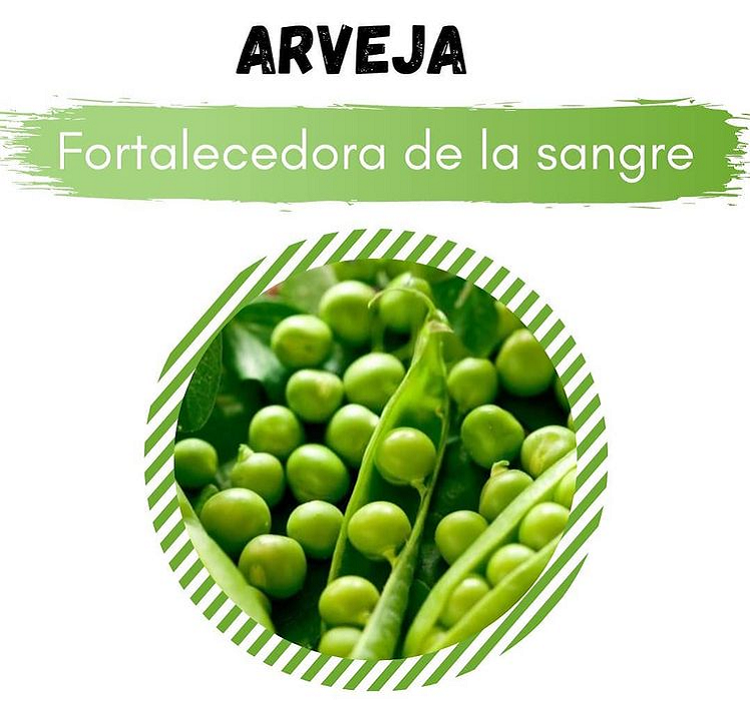
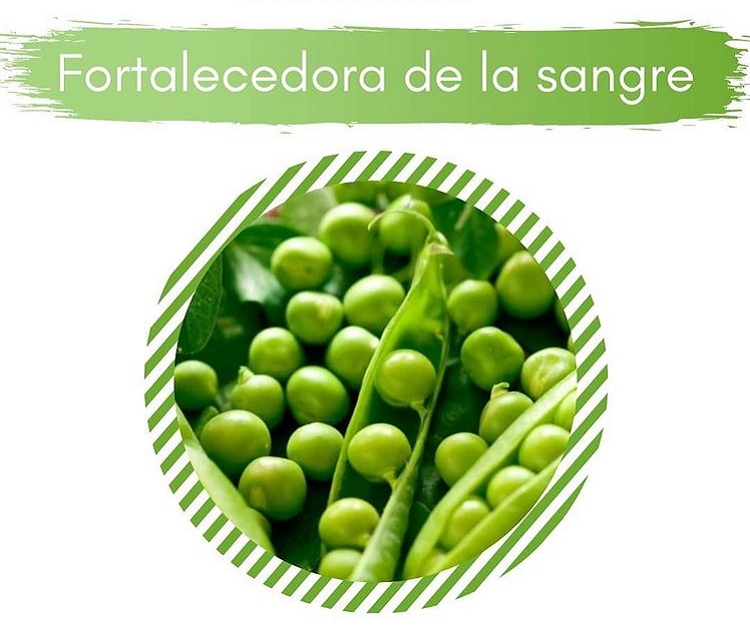
haciendo Prod responsive

diff --git a/css/main.css b/css/main.css
@@ -1,3 +1,3 @@
-@font-face{font-family:'GlacialIndifference';src:url(../fonts/GlacialIndifference/GlacialIndifference-Regular.otf);font-weight:normal;font-style:normal}@font-face{font-family:'Gagalin';src:url(../fonts/Gagalin/OTF/Gagalin-Regular.otf);font-weight:normal;font-style:normal}html{width:100%}html body{background-image:url(../images/fondo-vegetales4.jpg);position:relative;min-height:1000px;max-height:2000px}html main{margin-bottom:10px}.barraNavegacion{display:flex;justify-content:space-around;align-items:center;border:black}.barraNavegacion nav{background-image:linear-gradient(#fbecb4, #FDFEF1);width:100%}.barraNavegacion h3{margin-bottom:45px;font-family:'Calibri', 'Gill Sans', 'Gill Sans MT', 'Trebuchet MS', sans-serif;background-color:#fbecb4;margin-top:30px;text-align:center;border-style:double;border-color:black}ul{text-align:center;align-items:center;color:#2b2f17}ul li{display:inline-block;justify-content:space-between;font-family:'GlacialIndifference', 'Gill Sans', 'Gill Sans MT', sans-serif;font-size:20px;margin-left:20px;margin-right:20px}ul li a{text-decoration:none;color:#2b2f17;justify-content:space-between}ul li a:hover{text-decoration:none;color:#2b2f17;transition:0.5s}ul li:hover{transform:scale(1.4, 1.4);transition:1s}#logo{display:flex;justify-content:center;padding-top:12px;padding-bottom:30px;margin-top:30px;background-color:#fbecb4;height:200px;border-style:double;border-color:black}#logo div{padding:15px}#logo div a img{width:150px;height:150px;border-color:black}#logo div a img:hover{transform:scale(1.5, 1.5);transition:1s;border-color:black}.milZabores{font-family:'GlacialIndifference', 'Gill Sans', 'Gill Sans MT';padding-top:60px;font-size:45px}.veganos{font-family:'Gagalin', 'calibri';padding-top:60px;font-size:45px}footer{font-family:'GlacialIndifference', 'Gill Sans', 'Gill Sans MT', 'Trebuchet MS', sans-serif;width:100%;height:50px;bottom:0;right:0;left:0;position:relative;padding:10px;background-image:linear-gradient(#FDFEF1, #fbecb4)}footer p{text-align:center;color:black}.imgPrincipalProd div img{width:1000px;height:300px;transform:translate(240px, 30px)}.tituloProductos{font-family:'GlacialIndifference', 'Gill Sans', 'Gill Sans MT', sans-serif;font-size:xx-large;font-weight:bolder;transform:translate(250px, -30px);color:#FDFEF1}.productos{font-family:'GlacialIndifference', 'Gill Sans', 'Gill Sans MT', sans-serif;transform:translate(250px, 1px);margin-top:30px;font-weight:bolder}.productos div p{font-size:x-large;font-weight:bold;margin-top:5px;margin-bottom:4px}.productos div h2{display:inline-block;font-size:medium}#prodGrillas{display:grid;grid-template-areas:"prod1 prod2 prod3 prod4" "prod5 prod6 prod7 prod8";grid-template-columns:300px 300px 300px 250px;grid-template-rows:300px 300px 300px 250px}.prod1{grid-area:prod1}.prod2{grid-area:prod2}.prod3{grid-area:prod3}.prod4{grid-area:prod4}.prod5{grid-area:prod5}.prod6{grid-area:prod6}.prod7{grid-area:prod7}.prod8{grid-area:prod8}.imgPrincipalTips div img{transform:translate(300px, 20px)}.titulosTips{font-family:'GlacialIndifference', 'Gill Sans', 'Gill Sans MT', sans-serif;font-size:xx-large;font-weight:bolder;transform:translate(310px, -25px);color:#FDFEF1;width:60%}.titulosTips h1{color:black;font-size:25px;margin-top:25px}.titulosTips p{color:#222;font-size:medium}.imgTips{margin-left:-200px;margin-bottom:20px}.imgCongelados{display:flex;margin-left:3px;margin-right:3px}.imgCongelados img{justify-content:space-between}.articulosTips{margin-top:25px}.tituloConocenos{font-family:'GlacialIndifference', 'Gill Sans', 'Gill Sans MT', sans-serif;font-size:xx-large;font-weight:bolder;transform:translate(320px, -30px);color:#FDFEF1;width:60%}.tituloConocenos p{color:#2c2c2c;font-size:25px;display:inline-block;transform:translate(-50px);margin-top:25px}.imgPrincipalConocenos div img{font-family:'GlacialIndifference', 'Gill Sans', 'Gill Sans MT', sans-serif;font-size:25px;font-weight:bolder;transform:translate(310px, 20px);color:#FDFEF1;width:60%}.contactanos{font-family:'GlacialIndifference', 'Gill Sans', 'Gill Sans MT', sans-serif;font-size:25px;font-weight:normal;margin-top:80px;width:80%;transform:translate(400px)}.contactanos p{font-size:20px}.contactanos form{font-size:20px}.carousel-inner{position:relative;width:70%;overflow:hidden;transform:translate(150px, 10px);margin-bottom:45px}.fondoClaro{background-color:#fbecb4;max-width:75%;transform:translate(230px);padding-left:-20px;border-left:double #222;border-right:double #222}.positionProd{transform:translate(-120px)}@media only screen and (max-width: 576px){.milZabores{font-family:'GlacialIndifference', 'Gill Sans', 'Gill Sans MT';padding-top:60px;padding-right:10px;font-size:30px}.veganos{font-family:'Gagalin', 'calibri';padding-top:60px;font-size:30px}#logo{display:flex;justify-content:center;padding-top:12px;padding-bottom:30px;padding-right:25px;margin-top:30px;background-color:#fbecb4;height:200px;border-style:double;border-color:black}#logo div{padding:15px}#logo div a img{height:100px;width:100px}#logo div a img:hover{transform:scale(1.5, 1.5);transition:1s}.barraNavegacion h3{font-size:20px}#carouselExampleIndicators{display:flex;align-items:center}.fondoClaro{background-color:#fbecb4;max-width:75%;transform:translate(80px);padding-left:-20px;border-left:double #222;border-right:double #222}.imgPrincipalProd div img{width:400px;height:120px;transform:translate(130px, 30px)}.tituloProductos{font-family:'GlacialIndifference', 'Gill Sans', 'Gill Sans MT', sans-serif;font-size:25px;font-weight:bolder;transform:translate(135px, -15px);color:#FDFEF1}.productos{font-family:'GlacialIndifference', 'Gill Sans', 'Gill Sans MT', sans-serif;transform:translate(250px, 1px);margin-top:30px;font-weight:bolder}.productos div p{font-size:x-large;font-weight:bold;margin-top:5px;margin-bottom:4px}.productos div h2{display:inline-block;font-size:medium}#prodGrillas{display:grid;grid-template-areas:"prod1 prod2 prod3 prod4" "prod5 prod6 prod7 prod8";grid-template-columns:300px 300px 300px 250px;grid-template-rows:300px 300px 300px 250px}}
+@font-face{font-family:'GlacialIndifference';src:url(../fonts/GlacialIndifference/GlacialIndifference-Regular.otf);font-weight:normal;font-style:normal}@font-face{font-family:'Gagalin';src:url(../fonts/Gagalin/OTF/Gagalin-Regular.otf);font-weight:normal;font-style:normal}html{width:100%}html body{background-image:url(../images/fondo-vegetales4.jpg);position:relative;min-height:1000px;max-height:2000px}html main{margin-bottom:10px}.barraNavegacion{display:flex;justify-content:space-around;align-items:center;border:black}.barraNavegacion nav{background-image:linear-gradient(#fbecb4, #FDFEF1);width:100%}.barraNavegacion h3{margin-bottom:45px;font-family:'Calibri', 'Gill Sans', 'Gill Sans MT', 'Trebuchet MS', sans-serif;background-color:#fbecb4;margin-top:30px;text-align:center;border-style:double;border-color:black}ul{text-align:center;align-items:center;color:#2b2f17}ul li{display:inline-block;justify-content:space-between;font-family:'GlacialIndifference', 'Gill Sans', 'Gill Sans MT', sans-serif;font-size:20px;margin-left:20px;margin-right:20px}ul li a{text-decoration:none;color:#2b2f17;justify-content:space-between}ul li a:hover{text-decoration:none;color:#2b2f17;transition:0.5s}ul li:hover{transform:scale(1.4, 1.4);transition:1s}#logo{display:flex;justify-content:center;padding-top:12px;padding-bottom:30px;margin-top:30px;background-color:#fbecb4;height:200px;border-style:double;border-color:black}#logo div{padding:15px}#logo div a img{width:150px;height:150px;border-color:black}#logo div a img:hover{transform:scale(1.5, 1.5);transition:1s;border-color:black}.milZabores{font-family:'GlacialIndifference', 'Gill Sans', 'Gill Sans MT';padding-top:60px;font-size:45px}.veganos{font-family:'Gagalin', 'calibri';padding-top:60px;font-size:45px}footer{font-family:'GlacialIndifference', 'Gill Sans', 'Gill Sans MT', 'Trebuchet MS', sans-serif;width:100%;height:50px;bottom:0;right:0;left:0;position:relative;padding:10px;background-image:linear-gradient(#FDFEF1, #fbecb4)}footer p{text-align:center;color:black}.imgPrincipalProd div img{width:1000px;height:300px;transform:translate(240px, 30px)}.tituloProductos{font-family:'GlacialIndifference', 'Gill Sans', 'Gill Sans MT', sans-serif;font-size:xx-large;font-weight:bolder;transform:translate(250px, -30px);color:#FDFEF1}.productos{font-family:'GlacialIndifference', 'Gill Sans', 'Gill Sans MT', sans-serif;transform:translate(250px, 1px);margin-top:30px;font-weight:bolder}.productos div p{font-size:x-large;font-weight:bold;margin-top:5px;margin-bottom:4px}.productos div h2{display:inline-block;font-size:medium}#prodGrillas{display:grid;grid-template-areas:"prod1 prod2 prod3 prod4" "prod5 prod6 prod7 prod8";grid-template-columns:300px 300px 300px 250px;grid-template-rows:300px 300px 300px 250px}.prod1{grid-area:prod1}.prod2{grid-area:prod2}.prod3{grid-area:prod3}.prod4{grid-area:prod4}.prod5{grid-area:prod5}.prod6{grid-area:prod6}.prod7{grid-area:prod7}.prod8{grid-area:prod8}.imgPrincipalTips div img{transform:translate(300px, 20px)}.titulosTips{font-family:'GlacialIndifference', 'Gill Sans', 'Gill Sans MT', sans-serif;font-size:xx-large;font-weight:bolder;transform:translate(310px, -25px);color:#FDFEF1;width:60%}.titulosTips h1{color:black;font-size:25px;margin-top:25px}.titulosTips p{color:#222;font-size:medium}.imgTips{margin-left:-200px;margin-bottom:20px}.articulosTips{margin-top:25px}.tituloConocenos{font-family:'GlacialIndifference', 'Gill Sans', 'Gill Sans MT', sans-serif;font-size:xx-large;font-weight:bolder;transform:translate(320px, -30px);color:#FDFEF1;width:60%}.tituloConocenos p{color:#2c2c2c;font-size:25px;display:inline-block;transform:translate(-50px);margin-top:25px}.imgPrincipalConocenos div img{font-family:'GlacialIndifference', 'Gill Sans', 'Gill Sans MT', sans-serif;font-size:25px;font-weight:bolder;transform:translate(310px, 20px);color:#FDFEF1;width:60%}.contactanos{font-family:'GlacialIndifference', 'Gill Sans', 'Gill Sans MT', sans-serif;font-size:25px;font-weight:normal;margin-top:80px;width:80%;transform:translate(400px)}.contactanos p{font-size:20px}.contactanos form{font-size:20px}.carousel-inner{position:relative;width:70%;overflow:hidden;transform:translate(150px, 10px);margin-bottom:45px}.fondoClaro{background-color:#fbecb4;max-width:75%;transform:translate(230px);padding-left:-20px;border-left:double #222;border-right:double #222}.positionProd{transform:translate(-120px)}@media only screen and (max-width: 576px){.milZabores{font-family:'GlacialIndifference', 'Gill Sans', 'Gill Sans MT';padding-top:60px;padding-right:10px;font-size:30px}.veganos{font-family:'Gagalin', 'calibri';padding-top:60px;font-size:30px}#logo{display:flex;justify-content:center;padding-top:12px;padding-bottom:30px;padding-right:25px;margin-top:30px;background-color:#fbecb4;height:200px;border-style:double;border-color:black}#logo div{padding:15px}#logo div a img{height:100px;width:100px}#logo div a img:hover{transform:scale(1.5, 1.5);transition:1s}.barraNavegacion h3{font-size:20px}#carouselExampleIndicators{display:flex;align-items:center}.fondoClaro{background-color:#fbecb4;max-width:75%;transform:translate(80px);padding-left:-20px;border-left:double #222;border-right:double #222}.imgPrincipalProd div img{width:400px;height:120px;transform:translate(130px, 30px)}.tituloProductos{font-family:'GlacialIndifference', 'Gill Sans', 'Gill Sans MT', sans-serif;font-size:25px;font-weight:bolder;transform:translate(135px, -15px);color:#FDFEF1}.productos{font-family:'GlacialIndifference', 'Gill Sans', 'Gill Sans MT', sans-serif;transform:translate(250px, 1px);margin-top:30px;font-weight:bolder}.productos div p{font-size:x-large;font-weight:bold;margin-top:5px;margin-bottom:4px}.productos div h2{display:inline-block;font-size:medium}#prodGrillas{display:grid;grid-template-areas:"prod1 prod2 prod3 prod4" "prod5 prod6 prod7 prod8";grid-template-columns:300px 300px 300px 250px;grid-template-rows:300px 300px 300px 250px}.imgPrincipalTips img{width:400px;height:120px;transform:translate(15px, 30px)}}.titulosTips{font-family:'GlacialIndifference', 'Gill Sans', 'Gill Sans MT', sans-serif;font-weight:bolder;transform:translate(310px, -25px);color:#FDFEF1;width:60%}.titulosTips h1{transform:translate(-290px, -7px);color:#FDFEF1;font-size:xx-large}.titulosTips h2{color:black;font-size:25px;margin-top:25px;margin-left:-150px}.titulosTips p{color:#222;font-size:medium}.articulosTips{font-family:'GlacialIndifference', 'Gill Sans', 'Gill Sans MT', sans-serif;margin-top:25px;margin-left:25px}.articulosTips img{margin-top:25px;margin-left:25px;width:200px;height:171px}@media (min-width: 1200px){.articulosTips p{margin-top:25px;margin-left:-200px}}
 
[2 lines of base64/hex data omitted]

diff --git a/pages/milzatips.html b/pages/milzatips.html
@@ -43,19 +43,24 @@
             </section>
         </header>
         <main class="fondoClaro">
-            <section class="imgPrincipalTips">
-                <div>
-                    <img src="../images/pizza.jpg" width="800px" height="280px" alt="milzatips">
-                </div>
-                <div class="titulosTips">
-                    MILZATIPS
+            <section>
+                <div class="imgPrincipalTips">
+                    <img src="../images/pizza.jpg" alt="milzatips">
                 </div>
                 <div class="titulosTips">
                     <h1>
+                        MILZATIPS
+                    </h1>                   
+                </div>
+                <div class="titulosTips">
+                    <h2>
                         ARVEJAS
-                    </h1>
-                    <img class="imgTips" src="../images/milzatips/tip-arveja.png" height="400px">
-                    <p class="articulosTips">¿QUÉ NOS APORTAN?
+                    </h2>
+                </div>
+                <div  class="articulosTips">
+                    <img class="imgTips" src="../images/milzatips/tip-arveja.png">
+                    <p>
+                        <p>¿QUÉ NOS APORTAN?</p>
                         <p>Investigando un poquito encontré información muy valiosa sobre estas legumbres.</p>
                         
                         <p>🌟Son fortalecedoras de la sangre porque aportan hierro y tiamina (B1) regenerando y
@@ -80,80 +85,75 @@
                         comidas.💥</p>
                 </div>
                 <div class="titulosTips">
-                    <h1>
+                    <h2>
                         ZANAHORIA
-                    </h1>
-                    <img class="imgTips" src="../images/milzatips/tip-zanahoria.png" height="400px">
-                    <p class="articulosTips">Podemos describirla como una raíz con acciones curativas.
-
-                        <p>Se puede consumir de diversas formas, incluso crudas, asadas, hervidas, salteadas,
-                            untables, y tanto su textura como su sabor, resultan muy agradables al paladar.</p>
-                        
-                        <p>👉UN BUEN DATO: Los carotenos son responsables del color naranja de la zanahoria, por la
-                            cual se nombra esta clase de productos químicos, y de los colores de muchas otras frutas,
-                            verduras y hongos (por ejemplo, batatas, rebozuelos y cantalupo).</p>
-                        
-                        <p>🌟¿QUÉ NOS APORTAN?🌟</p>
-                        
-                        <p>🌟VISTA SANA 🌟-
-                            ERA UN MITO?🤔NO☑</p>
-                        
-                        <p>✨Ayuda a promover el buen funcionamiento de la retina humana, el betacaroteno actúa
-                            como un compuesto antioxidante que se transforma en vitamina A, también conocida como
-                            retinol.</p>
-                        
-                        
-                        <p>La falta de vitamina A en el organismo puede llegar a ocasionar una enfermedad ocular
-                            llamada xeroftalmia, la cual se caracteriza por la sequedad de la membrana conjuntiva y
-                            opacidad de la córnea. Si bien se trata de un caso extremo, viene a darnos una idea
-                            acerca de la importancia de contar con vitamina A en el organismo.</p>
-                        
-                        <p>🌟REGENERA LA PIEL🌟</p>
-                        
-                        <p>Las vitaminas A, B y C, en conjunto con otros nutrientes, como los flavonoides, ayudan a
-                            que la piel tenga la capacidad de curarse con mayor facilidad en caso de lesión externa y a
-                            mantenerse sana.</p>
-                        
-                        <p>La vitamina E promueve la formación de fibras elásticas y colágenas del tejido
-                            conjuntivo, actúa como antioxidante que, en suma, ayuda a mantener la elasticidad y
-                            tersura de la piel.</p>
-                        
-                        <p>🌟SISTEMA DIGESTIVO ACTIVO🌟</p>
-                        
-                        <p>La zanahoria es una hortaliza con alto contenido de agua, por ende, supone un buen
-                            aporte de fibra.Esto le confiere propiedades digestivas muy importantes para la salud del
-                            sistema digestivo. Se ha comprobado que, al comerla, la zanahoria aumenta la
-                            producción de saliva y, también, de los jugos gástricos que intervienen en el proceso
-                            de la digestión.</p>
-                        
-                        <p>Es aconsejable comer por lo menos 4 veces por semana!</p>
+                    </h2>
                 </div>
+                <div class="articulosTips">
+                    <img class="imgTips" src="../images/milzatips/tip-zanahoria.png">
+                    <p>Podemos describirla como una raíz con acciones curativas.</p>
+
+                    <p>Se puede consumir de diversas formas, incluso crudas, asadas, hervidas, salteadas,
+                        untables, y tanto su textura como su sabor, resultan muy agradables al paladar.</p>
+                            
+                    <p>👉UN BUEN DATO: Los carotenos son responsables del color naranja de la zanahoria, por la
+                        cual se nombra esta clase de productos químicos, y de los colores de muchas otras frutas,
+                        verduras y hongos (por ejemplo, batatas, rebozuelos y cantalupo).</p>
+                            
+                    <p>🌟¿QUÉ NOS APORTAN?🌟</p>
+                            
+                    <p>🌟VISTA SANA 🌟-
+                        ERA UN MITO?🤔NO☑</p>
+                            
+                    <p>✨Ayuda a promover el buen funcionamiento de la retina humana, el betacaroteno actúa
+                        como un compuesto antioxidante que se transforma en vitamina A, también conocida como
+                        retinol.</p>
+                            
+                            
+                    <p>La falta de vitamina A en el organismo puede llegar a ocasionar una enfermedad ocular
+                        llamada xeroftalmia, la cual se caracteriza por la sequedad de la membrana conjuntiva y
+                        opacidad de la córnea. Si bien se trata de un caso extremo, viene a darnos una idea
+                        acerca de la importancia de contar con vitamina A en el organismo.</p>
+                            
+                    <p>🌟REGENERA LA PIEL🌟</p>
+                            
+                    <p>Las vitaminas A, B y C, en conjunto con otros nutrientes, como los flavonoides, ayudan a
+                        que la piel tenga la capacidad de curarse con mayor facilidad en caso de lesión externa y a
+                        mantenerse sana.</p>
+                            
+                    <p>La vitamina E promueve la formación de fibras elásticas y colágenas del tejido
+                        conjuntivo, actúa como antioxidante que, en suma, ayuda a mantener la elasticidad y
+                        tersura de la piel.</p>
+                            
+                    <p>🌟SISTEMA DIGESTIVO ACTIVO🌟</p>
+                            
+                    <p>La zanahoria es una hortaliza con alto contenido de agua, por ende, supone un buen
+                        aporte de fibra.Esto le confiere propiedades digestivas muy importantes para la salud del
+                        sistema digestivo. Se ha comprobado que, al comerla, la zanahoria aumenta la
+                        producción de saliva y, también, de los jugos gástricos que intervienen en el proceso
+                        de la digestión.</p>
+                            
+                    <p>Es aconsejable comer por lo menos 4 veces por semana!</p>
+                </div>               
                 <div class="titulosTips">
-                    <h1>
+                    <h2>
                         TOSTANARANJA
-                    </h1>
-                    <img class="imgTips" src="../images/milzatips/tostaranja.png" height="400px">
-                    <p class="articulosTips">
-                        <p>Hoy le traemos una recetina facilísima, que sirve mucho para acompañar algo como puede ser un jugo, unos mates o una birrita✨ depende la ocasión.</p>
-
-                        <p>🔶➡El próximo podría ser como hacer su propio •Hummus de garbanzos•? La tiramoooos...⬅🔶</p><br>
-                        
-                        <p>🌿Receta🌿</p>
-                        
-                        <p> 
-                            
-                                •Hummus de Garbanzos<br>
-                                •Zanahoria rallada🥕 (puede ser tomate, pepino, rúcula) lo que gustes🍅🥬<br>
-                                •Pimienta, sal, y aceite<br>
-                                • Semillas de las que tengas en casa
-                            
-                        </p>
-
-                        
-                        <p>Un dato que no es menor, para realzar y unir todos los sabores, terminamos poniéndole unas gotas de jugo natural de limón🍋, y listo! Alto aperitivooo, nutritivo y riquísimo💘</p>
-                        
-                        <p>Porción individual: 3 tostadas✅</p>
-
+                    </h2>
+                </div>
+                <div class="articulosTips">
+                    <img class="imgTips" src="../images/milzatips/tostaranja.png">
+                    <p>Hoy le traemos una recetina facilísima, que sirve mucho para acompañar algo como puede ser un jugo, unos mates o una birrita✨ depende la ocasión.</p>
+                    <p>🔶➡El próximo podría ser como hacer su propio •Hummus de garbanzos•? La tiramoooos...⬅🔶</p><br>                        
+                    <p>🌿Receta🌿</p>                        
+                    <p>                             
+                        •Hummus de Garbanzos<br>
+                        •Zanahoria rallada🥕 (puede ser tomate, pepino, rúcula) lo que gustes🍅🥬<br>
+                        •Pimienta, sal, y aceite<br>
+                        • Semillas de las que tengas en casa                            
+                    </p>                        
+                    <p>Un dato que no es menor, para realzar y unir todos los sabores, terminamos poniéndole unas gotas de jugo natural de limón🍋, y listo! Alto aperitivooo, nutritivo y riquísimo💘</p>                       
+                    <p>Porción individual: 3 tostadas✅</p>
+                </div>
                 </div>
             </section>
         </main>

diff --git a/scss/_global.scss b/scss/_global.scss
@@ -213,14 +213,6 @@ footer{
   margin-left: -200px;
   margin-bottom: 20px;
 }
-.imgCongelados{
-  display: flex;
-  margin-left: 3px;  
-  margin-right: 3px;
-  img{
-    justify-content: space-between;
-  }
-}
 .articulosTips{
   margin-top: 25px;
 }
@@ -382,7 +374,47 @@ footer{
     grid-template-columns: 300px 300px 300px 250px;
     grid-template-rows: 300px 300px 300px 250px;
   }
-
+  .imgPrincipalTips{
+      img{
+        width: 400px;
+        height: 120px;
+        transform: translate(15px, 30px);
+      }
+    }
+  }
+  .titulosTips{
+    font-family: 'GlacialIndifference', 'Gill Sans', 'Gill Sans MT', sans-serif;   
+    font-weight: bolder;
+    transform: translate(310px, -25px);
+    color: #FDFEF1;    
+    width: 60%;
+    h1{
+      transform: translate(-290px, -7px);
+      color: #FDFEF1; 
+      font-size: xx-large;
+      
+    }    
+    h2{
+      color:black;
+      font-size: 25px;
+      margin-top: 25px;
+      margin-left: -150px;
+    }
+    p{
+      color:$black;
+      font-size: medium;
+    }
+  }
+  .articulosTips{
+    font-family: 'GlacialIndifference', 'Gill Sans', 'Gill Sans MT', sans-serif;
+    margin-top: 25px;    
+    margin-left: 25px;
+    img{
+      margin-top: 25px;    
+      margin-left: 25px;
+      width: 200px;
+      height: 171px;
+    }
 
 }
 
@@ -398,6 +430,10 @@ footer{
 
 // Extra large devices (large desktops, 1200px and up)
 @media (min-width: 1200px) {
-
+    .articulosTips{
+    p{
+      margin-top: 25px;
+      margin-left: -200px;
+    }
+  }
 }
-
